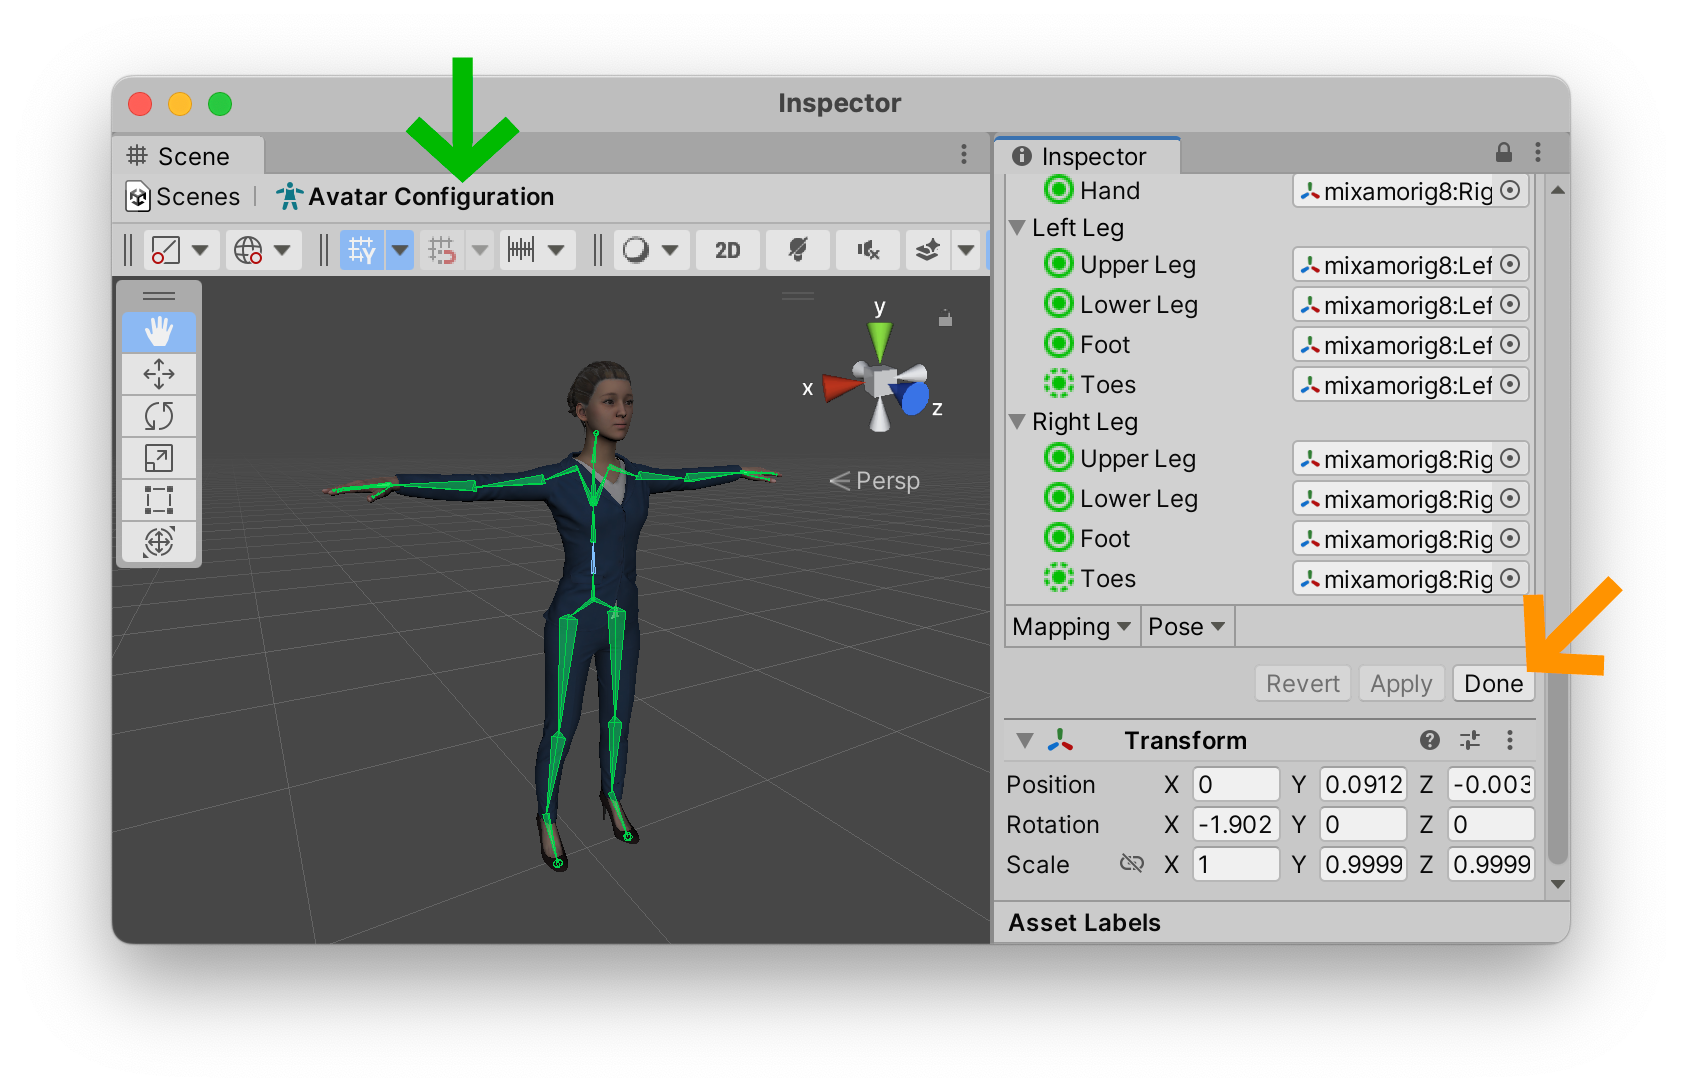
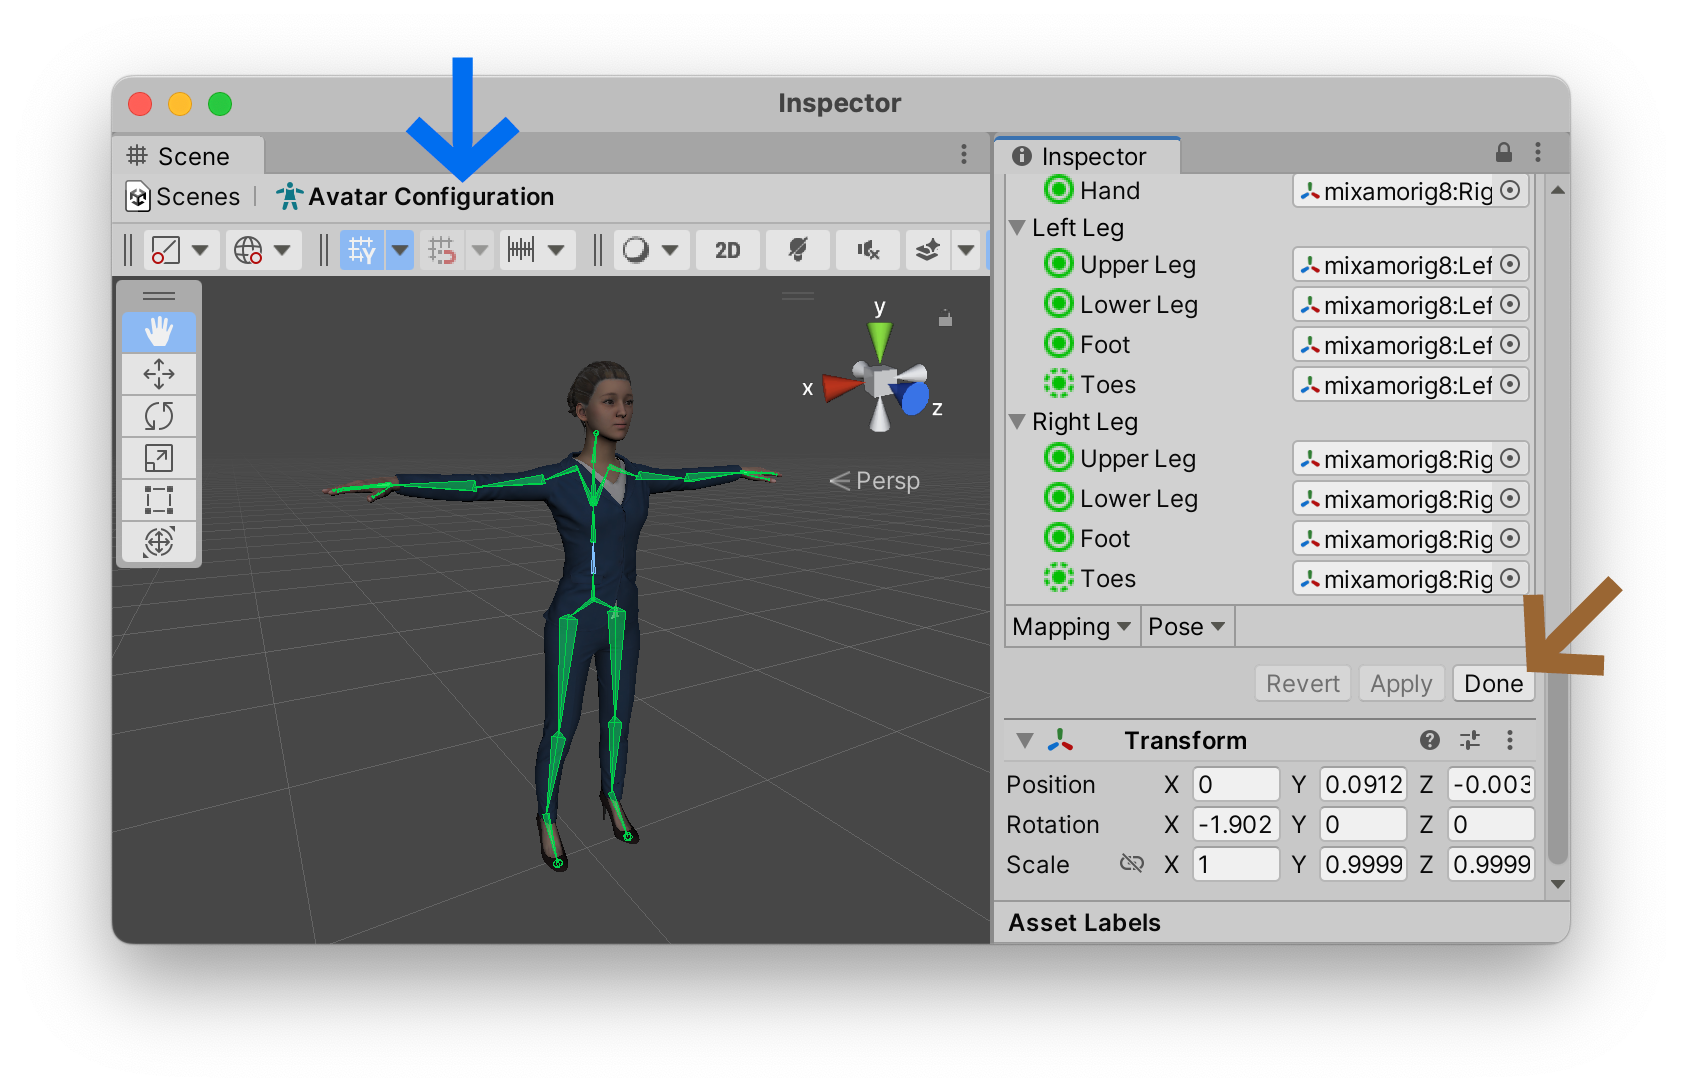
Added more content to Hello Humanoid

Changed region(s): [[0.8966, 0.5293, 0.9584, 0.6227], [0.2473, 0.0623, 0.3092, 0.1557]]

diff --git a/06_hello-humanoid/readme.md b/06_hello-humanoid/readme.md
@@ -83,14 +83,14 @@ Now that you've chosen your character, press the (highlight:red text:`Animations
 ![Mixamo select animation](mixamo-select-animation.png)
 
 ### ♫ The Knee bone is connected to the thigh bone ♫
-If you want to better understand how these 3d humanoid animations work, select the (highlight:fuchsia text:`skeleton view`) icon which will show you the normally invisible skeletal "`rig`" that deforms the 3D mesh, much the same way bones (and muscles) control the shape of our body. This rudimentary image will also help you to understand how animations will work later inside of the Unity "Mecanim" animator system: this idea of bones and rigs is what allows an animated character to transition seamlessly from one pose or movement to another, as well as adapt (within limits) to different body lengths and heights. You should now see your animated bones without any skin, which technically means without any `3D meshes`, `textures`, or `materials`.
+If you want to better understand how these 3d humanoid animations work, select the (highlight:fuchsia text:`skeleton view`) icon which will show you the normally invisible skeletal "`rig`" that deforms the 3D mesh, much the same way bones (and muscles) control the shape of our body. This rudimentary image will also help you to understand how animations will work later inside of the Unity "Mecanim" animator system: this concept of a "rig" of "bones" is what allows an animated character to transition seamlessly from one pose or movement to another, as well as adapt (within limits) to different body lengths and heights. You should now see your animated bones without any skin, which technically means without any `3D meshes`, `textures`, or `materials`.
 
 ![Mixamo skeleton view](mixamo-skeleton-view.jpg)
 
 These `bones` are the actual positions of a real human moving in physical space, recorded by a motion capture system over time, frame by frame, and now playing back in Mixamo. This recording from a motion capture system is nothing else than a record of the `x`/`y`/`z` positions and rotations of these bones over time. These animations do not even need to record any physical attributes other than these `x`/`y`/`z` positions and rotations. The final 3D animation will require injecting these invisible bones into a character's 3D `mesh` and allowing these bones to move the vertices of the model as if it were pliable skin on a human body.
 
 ### Download
-Once we have applied an (highlight:orange text:`animation`) to our (highlight:red text:`character`) we are now ready to (highlight:yellow text:`download`) both and import them as a single entity into Unity. In the download settings window, you will need to select (highlight:fuchsia text:`FBX for Unity`) as your format. You can leave the other settings alone (`with skin`, `30 frames per second`, `no keyframe reduction`), and then (highlight:brown text:`download`) the file.
+Once we have applied an (highlight:red text:`animation`) to our (highlight:orange text:`character`) we are now ready to (highlight:yellow text:`download`) both and import them as a single entity into Unity. In the download settings window, you will need to select (highlight:fuchsia text:`FBX for Unity`) as your format. You can leave the other settings alone (`with skin`, `30 frames per second`, `no keyframe reduction`), and then (highlight:brown text:`download`) the file.
 
 ![Mixamo download settings](mixamo-download-settings.png)
 
@@ -114,21 +114,21 @@ As you can see below, there are a *lot* of possible settings for a model, which 
 
 ![Model Import Settings](unity-model-import-settings.png)
 
-Inside the (highlight:fuchsia text:`Model`) tab, we will deactivate the (highlight:fuchsia text:`Cameras`) and (highlight:fuchsia text:`Lights`) options. We are not creating a product packshot: we are creating a real-time interactive environment inside of Unity that will use its own camera and lighting system. There are a lot of other useful options inside of this tab, but for now let's keep things simple and ignore all the others. To apply any changes you make, don't forget to click on the (highlight:fuchsia text:`Apply`) button at the bottom of this window.
+Inside the (highlight:fuchsia text:`Model`) tab, we will deactivate the (highlight:fuchsia text:`Cameras`) and (highlight:fuchsia text:`Lights`) options. We are not creating a product packshot: we are creating a real-time interactive environment inside of Unity that will use its own camera and lighting system. There are a lot of other useful options inside of this tab, but for now let's keep things simple and ignore all the others. To apply any changes you make, don't forget to click on the `Apply` button at the bottom of this window.
 
-Inside the (highlight:green text:`Rig`) tab, select the (highlight:green text:`Humanoid`) type, which means that we will be animating the bones of a two-legged creature (Louise is a humanoid) with two arms and a head, more or less ressembling a human-shaped creature. We also need to tell Unity to (highlight:green text:`Create From This Model`) our humanoid avatar. An "Avatar" is like a marionette that you can control will various animations and can even break up into differents sub-sections of animations with one animation controlling the head, while the other controls the legs. By turning your 3D model into a marionette-like "avatar", you can transition more elegantly from one animation to another through interactivity. Don't forget to (highlight:green text:`Apply`) your changes when you are done.
+Inside the (highlight:green text:`Rig`) tab, select the (highlight:green text:`Humanoid`) type, which means that we will be animating the bones of a two-legged creature (Louise is a humanoid) with two arms and a head, more or less ressembling a human-shaped creature. We also need to tell Unity to (highlight:green text:`Create From This Model`) our humanoid avatar. An "Avatar" is like a marionette that you can control will various animations and can even break up into differents sub-sections of animations with one animation controlling the head, while the other controls the legs. By turning your 3D model into a marionette-like "avatar", you can transition more elegantly from one animation to another through interactivity. Don't forget to `Apply` your changes when you are done.
 
-Inside the (highlight:red text:`Animation`) tab we make sure that the (highlight:red text:`Import Animation`) option is selected. Further down, let's give it a better name: here I've named the animation "(highlight:red text:`Idle`)". I also made sure to activate the (highlight:red text:`Loop Time`) option. You can't see it in the above screenshot, but there is yet another (highlight:red text:`Apply`) button you need to press to validate all these changes.
+Inside the (highlight:red text:`Animation`) tab we make sure that the (highlight:red text:`Import Animation`) option is selected. Further down, let's give it a better name: here I've named the animation "(highlight:red text:`Idle`)". I also made sure to activate the (highlight:red text:`Loop Time`) option. You can't see it in the above screenshot, but there is yet another `Apply` button you need to press to validate all these changes.
 
-Finally, let's give Louise her colors and materials back. Select the (highlight:purple text:`Materials`) tab, and select the (highlight:purple text:`Extract Textures`). This will ask us to select a folder in our Unity to project to extract Louise's clothing and skin textures to. As you can see in my `Project`'s `Assets` folder, I have selected the (highlight:purple text:`Louise`) folder for these extracted files. We will then do the same for the (highlight:purple text:`Extract Materials`) button: make sure to save these materials in the same folder as your model. Unity prefers having imported materials in the same folder as your model's `.fbx` file. You can also extract them into a special `Materials` folder, but we won't cover that right now. To keep it simple, just extract your textures and materials into the same folder as your model. Be sure to (highlight:purple text:`Apply`) these changes and you should now see Louise with her skin color and clothing color back to their normal appearance.
+Finally, let's give Louise her colors and materials back. Select the (highlight:purple text:`Materials`) tab, and select the (highlight:purple text:`Extract Textures`). This will ask us to select a folder in our Unity to project to extract Louise's clothing and skin textures to. As you can see in my `Project`'s `Assets` folder, I have selected the (highlight:purple text:`Louise`) folder for these extracted files. We will then do the same for the (highlight:purple text:`Extract Materials`) button: make sure to save these materials in the same folder as your model. Unity prefers having imported materials in the same folder as your model's `.fbx` file. You can also extract them into a special `Materials` folder, but we won't cover that right now. To keep it simple, just extract your textures and materials into the same folder as your model. Be sure to `Apply` these changes and you should now see Louise with her skin color and clothing color back to their normal appearance.
 
 ### Avatar Configuration
-If you want to play around with the (highlight:orange text:`Avatar`) system, select the (highlight:green text:`Rig`) tab and click on the (highlight:orange text:`Configure`) button. This will open the (highlight:green text:`Avatar Configuration`) window and place your avatar into the `T-Pose`. Try playing around with the `Muscles & Settings` options to see how well your avatar reacts to its rig. Once you are done configuring your avatar, you can return to the previous (highlight:green text:`Rig`) tab with the (highlight:orange text:`Done`) button at the bottom right of the `Inspector`. 
+If you want to play around with the (highlight:orange text:`Avatar`) system, select the (highlight:green text:`Rig`) tab above and click on the (highlight:orange text:`Configure`) button. This will open the (highlight:blue text:`Avatar Configuration`) window and place your avatar into the `T-Pose`. Try playing around with the `Muscles & Settings` options to see how well your avatar reacts to its rig. Once you are done configuring your avatar, you can return to the previous (highlight:green text:`Rig`) tab with the (highlight:brown text:`Done`) button at the bottom right of the `Inspector`. 
 
 ![Unity Avatar Configuration](unity-avatar-configuration.png)
 
 ### Opaque Textures
-One problem with Mixamo materials is that they come poorly configured into Unity with flipped normals, meaning that our character look like weird inverted skin monsters. For my Louise imported model, her clothing was fine, but her hair was oddly configured. A simple fix for this problem is to select our extracted (highlight:purple text:`Ch07_hair`) material, and change its (highlight:purple text:`Rendering Model`) to (highlight:purple text:`Opaque`). Louise should now how normal hair.
+One problem with Mixamo materials is that they come poorly configured into Unity with flipped normals, meaning that our characters look like weird inverted skin monsters. For my Louise imported model, her clothing was fine, but her hair was oddly configured. A simple fix for this problem is to select our extracted (highlight:purple text:`Ch07_hair`) material, and change its `Rendering Mode` to (highlight:orange text:`Opaque`). Louise should now have normal hair.
 
 ![Unity Material Fix Opacity](unity-model-fix-opacity-bug.png)
 
@@ -139,3 +139,5 @@ Now that we have configured our model correctly, and fixed the weird material bu
 
 ### Animator
 If you play your game now, you will not yet see the animation we imported with Louise. We need to drag the (highlight:green text:`Idle`) animation from our `Project` window's `Assets` folder, directly onto our (highlight:brown text:`Game Object`) that is now in our `Scene` and `Heirarchy` views. This will add the (highlight:green text:`Idle`) animation to Louise's (highlight:sky text:`Animation Controller`) where it should automatically be selected as the default animation upon (highlight:red text:`Entry`) into the game.
+
+If you now press the `Play` button, you should see Louise breathing via her looped `Idle` animation sequence.

diff --git a/06_hello-humanoid/lisezmoi.md b/06_hello-humanoid/lisezmoi.md
@@ -83,14 +83,14 @@ Now that you've chosen your character, press the (highlight:red text:`Animations
 ![Mixamo select animation](mixamo-select-animation.png)
 
 ### ♫ The Knee bone is connected to the thigh bone ♫
-If you want to better understand how these 3d humanoid animations work, select the (highlight:fuchsia text:`skeleton view`) icon which will show you the normally invisible skeletal "`rig`" that deforms the 3D mesh, much the same way bones (and muscles) control the shape of our body. This rudimentary image will also help you to understand how animations will work later inside of the Unity "Mecanim" animator system: this idea of bones and rigs is what allows an animated character to transition seamlessly from one pose or movement to another, as well as adapt (within limits) to different body lengths and heights. You should now see your animated bones without any skin, which technically means without any `3D meshes`, `textures`, or `materials`.
+If you want to better understand how these 3d humanoid animations work, select the (highlight:fuchsia text:`skeleton view`) icon which will show you the normally invisible skeletal "`rig`" that deforms the 3D mesh, much the same way bones (and muscles) control the shape of our body. This rudimentary image will also help you to understand how animations will work later inside of the Unity "Mecanim" animator system: this concept of a "rig" of "bones" is what allows an animated character to transition seamlessly from one pose or movement to another, as well as adapt (within limits) to different body lengths and heights. You should now see your animated bones without any skin, which technically means without any `3D meshes`, `textures`, or `materials`.
 
 ![Mixamo skeleton view](mixamo-skeleton-view.jpg)
 
 These `bones` are the actual positions of a real human moving in physical space, recorded by a motion capture system over time, frame by frame, and now playing back in Mixamo. This recording from a motion capture system is nothing else than a record of the `x`/`y`/`z` positions and rotations of these bones over time. These animations do not even need to record any physical attributes other than these `x`/`y`/`z` positions and rotations. The final 3D animation will require injecting these invisible bones into a character's 3D `mesh` and allowing these bones to move the vertices of the model as if it were pliable skin on a human body.
 
 ### Download
-Once we have applied an (highlight:orange text:`animation`) to our (highlight:red text:`character`) we are now ready to (highlight:yellow text:`download`) both and import them as a single entity into Unity. In the download settings window, you will need to select (highlight:fuchsia text:`FBX for Unity`) as your format. You can leave the other settings alone (`with skin`, `30 frames per second`, `no keyframe reduction`), and then (highlight:brown text:`download`) the file.
+Once we have applied an (highlight:red text:`animation`) to our (highlight:orange text:`character`) we are now ready to (highlight:yellow text:`download`) both and import them as a single entity into Unity. In the download settings window, you will need to select (highlight:fuchsia text:`FBX for Unity`) as your format. You can leave the other settings alone (`with skin`, `30 frames per second`, `no keyframe reduction`), and then (highlight:brown text:`download`) the file.
 
 ![Mixamo download settings](mixamo-download-settings.png)
 
@@ -114,13 +114,13 @@ As you can see below, there are a *lot* of possible settings for a model, which 
 
 ![Model Import Settings](unity-model-import-settings.png)
 
-Inside the (highlight:fuchsia text:`Model`) tab, we will deactivate the (highlight:fuchsia text:`Cameras`) and (highlight:fuchsia text:`Lights`) options. We are not creating a product packshot: we are creating a real-time interactive environment inside of Unity that will use its own camera and lighting system. There are a lot of other useful options inside of this tab, but for now let's keep things simple and ignore all the others. To apply any changes you make, don't forget to click on the (highlight:fuchsia text:`Apply`) button at the bottom of this window.
+Inside the (highlight:fuchsia text:`Model`) tab, we will deactivate the (highlight:fuchsia text:`Cameras`) and (highlight:fuchsia text:`Lights`) options. We are not creating a product packshot: we are creating a real-time interactive environment inside of Unity that will use its own camera and lighting system. There are a lot of other useful options inside of this tab, but for now let's keep things simple and ignore all the others. To apply any changes you make, don't forget to click on the `Apply` button at the bottom of this window.
 
-Inside the (highlight:green text:`Rig`) tab, select the (highlight:green text:`Humanoid`) type, which means that we will be animating the bones of a two-legged creature (Louise is a humanoid) with two arms and a head, more or less ressembling a human-shaped creature. We also need to tell Unity to (highlight:green text:`Create From This Model`) our humanoid avatar. An "Avatar" is like a marionette that you can control will various animations and can even break up into differents sub-sections of animations with one animation controlling the head, while the other controls the legs. By turning your 3D model into a marionette-like "avatar", you can transition more elegantly from one animation to another through interactivity. Don't forget to (highlight:green text:`Apply`) your changes when you are done.
+Inside the (highlight:green text:`Rig`) tab, select the (highlight:green text:`Humanoid`) type, which means that we will be animating the bones of a two-legged creature (Louise is a humanoid) with two arms and a head, more or less ressembling a human-shaped creature. We also need to tell Unity to (highlight:green text:`Create From This Model`) our humanoid avatar. An "Avatar" is like a marionette that you can control will various animations and can even break up into differents sub-sections of animations with one animation controlling the head, while the other controls the legs. By turning your 3D model into a marionette-like "avatar", you can transition more elegantly from one animation to another through interactivity. Don't forget to `Apply` your changes when you are done.
 
-Inside the (highlight:red text:`Animation`) tab we make sure that the (highlight:red text:`Import Animation`) option is selected. Further down, let's give it a better name: here I've named the animation "(highlight:red text:`Idle`)". I also made sure to activate the (highlight:red text:`Loop Time`) option. You can't see it in the above screenshot, but there is yet another (highlight:red text:`Apply`) button you need to press to validate all these changes.
+Inside the (highlight:red text:`Animation`) tab we make sure that the (highlight:red text:`Import Animation`) option is selected. Further down, let's give it a better name: here I've named the animation "(highlight:red text:`Idle`)". I also made sure to activate the (highlight:red text:`Loop Time`) option. You can't see it in the above screenshot, but there is yet another `Apply` button you need to press to validate all these changes.
 
-Finally, let's give Louise her colors and materials back. Select the (highlight:purple text:`Materials`) tab, and select the (highlight:purple text:`Extract Textures`). This will ask us to select a folder in our Unity to project to extract Louise's clothing and skin textures to. As you can see in my `Project`'s `Assets` folder, I have selected the (highlight:purple text:`Louise`) folder for these extracted files. We will then do the same for the (highlight:purple text:`Extract Materials`) button: make sure to save these materials in the same folder as your model. Unity prefers having imported materials in the same folder as your model's `.fbx` file. You can also extract them into a special `Materials` folder, but we won't cover that right now. To keep it simple, just extract your textures and materials into the same folder as your model. Be sure to (highlight:purple text:`Apply`) these changes and you should now see Louise with her skin color and clothing color back to their normal appearance.
+Finally, let's give Louise her colors and materials back. Select the (highlight:purple text:`Materials`) tab, and select the (highlight:purple text:`Extract Textures`). This will ask us to select a folder in our Unity to project to extract Louise's clothing and skin textures to. As you can see in my `Project`'s `Assets` folder, I have selected the (highlight:purple text:`Louise`) folder for these extracted files. We will then do the same for the (highlight:purple text:`Extract Materials`) button: make sure to save these materials in the same folder as your model. Unity prefers having imported materials in the same folder as your model's `.fbx` file. You can also extract them into a special `Materials` folder, but we won't cover that right now. To keep it simple, just extract your textures and materials into the same folder as your model. Be sure to `Apply` these changes and you should now see Louise with her skin color and clothing color back to their normal appearance.
 
 ### Avatar Configuration
 If you want to play around with the (highlight:orange text:`Avatar`) system, select the (highlight:green text:`Rig`) tab and click on the (highlight:orange text:`Configure`) button. This will open the (highlight:green text:`Avatar Configuration`) window and place your avatar into the `T-Pose`. Try playing around with the `Muscles & Settings` options to see how well your avatar reacts to its rig. Once you are done configuring your avatar, you can return to the previous (highlight:green text:`Rig`) tab with the (highlight:orange text:`Done`) button at the bottom right of the `Inspector`. 
